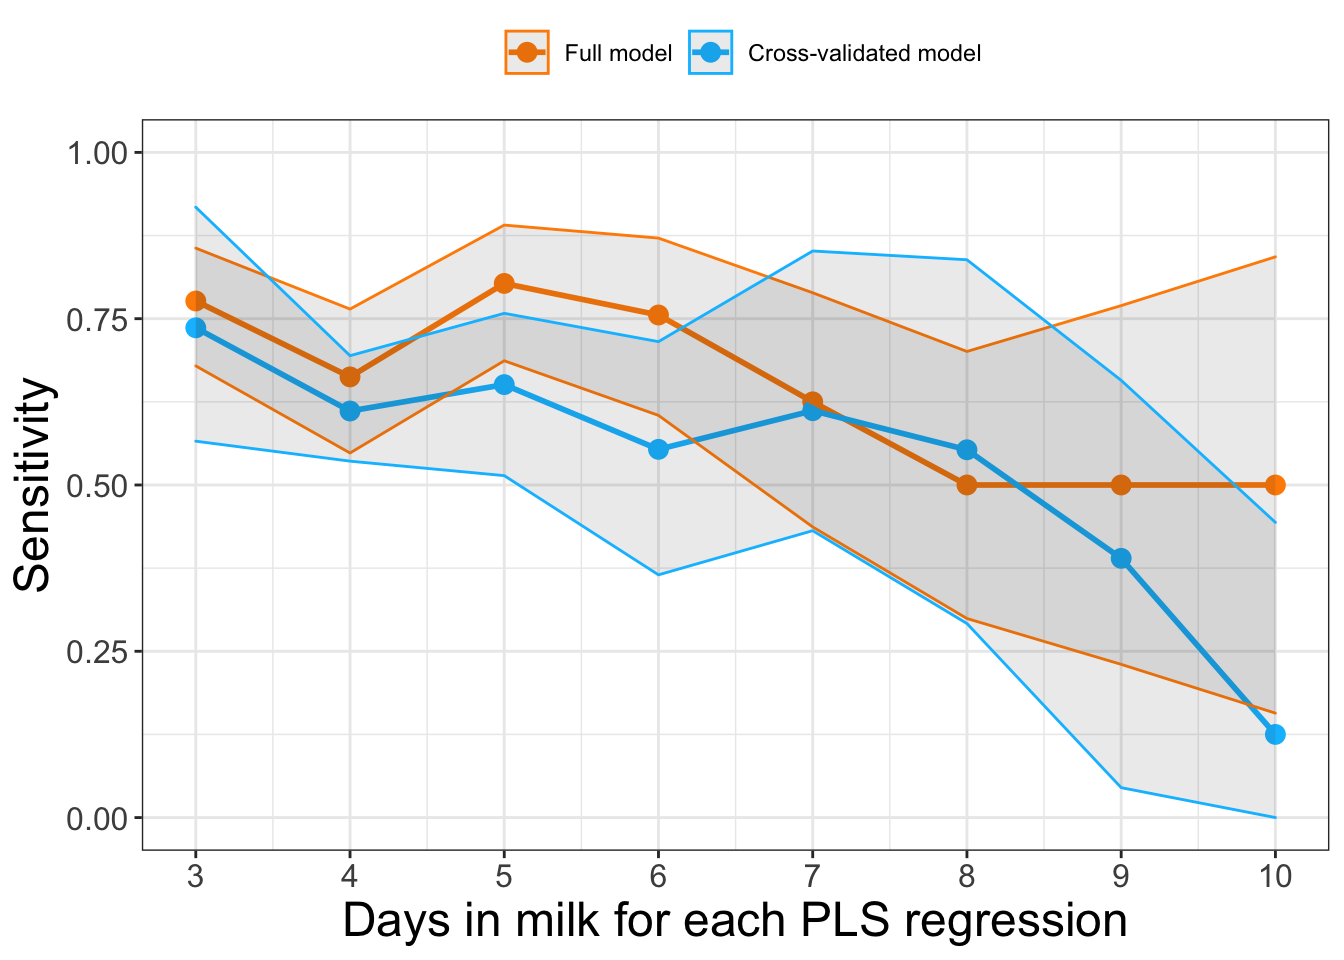
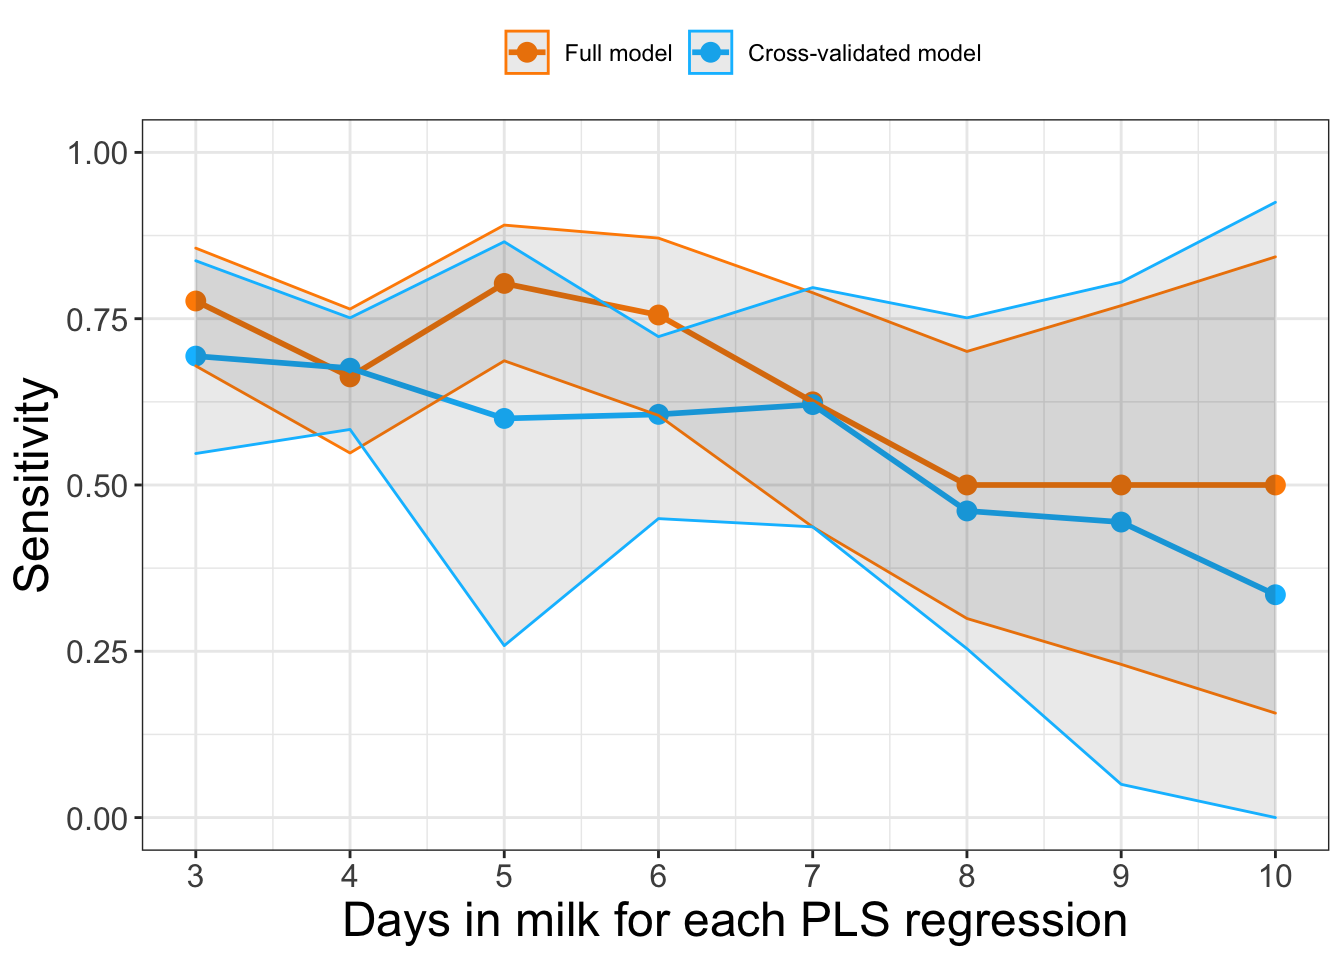
re running sim

diff --git a/index.html b/index.html
@@ -439,27 +439,57 @@ df = df %&gt;%
 <div id="number-of-cows-enrolled" class="section level3">
 <h3>Number of cows enrolled</h3>
 <table>
-<caption>Number of cows enrolled in study</caption>
+<caption>
+Number of cows enrolled in study
+</caption>
 <thead>
-<tr class="header">
-<th align="center">Parity 1</th>
-<th align="center">Parity 2</th>
-<th align="center">Parity 3</th>
-<th align="center">Parity 4</th>
-<th align="center">Parity 5</th>
-<th align="center">Parity 6</th>
-<th align="center">Parity 7</th>
+<tr>
+<th style="text-align:center;">
+Parity 1
+</th>
+<th style="text-align:center;">
+Parity 2
+</th>
+<th style="text-align:center;">
+Parity 3
+</th>
+<th style="text-align:center;">
+Parity 4
+</th>
+<th style="text-align:center;">
+Parity 5
+</th>
+<th style="text-align:center;">
+Parity 6
+</th>
+<th style="text-align:center;">
+Parity 7
+</th>
 </tr>
 </thead>
 <tbody>
-<tr class="odd">
-<td align="center">306</td>
-<td align="center">274</td>
-<td align="center">232</td>
-<td align="center">117</td>
-<td align="center">58</td>
-<td align="center">25</td>
-<td align="center">12</td>
+<tr>
+<td style="text-align:center;">
+306
+</td>
+<td style="text-align:center;">
+274
+</td>
+<td style="text-align:center;">
+232
+</td>
+<td style="text-align:center;">
+117
+</td>
+<td style="text-align:center;">
+58
+</td>
+<td style="text-align:center;">
+25
+</td>
+<td style="text-align:center;">
+12
+</td>
 </tr>
 </tbody>
 </table>
@@ -469,29 +499,63 @@ df = df %&gt;%
 <div id="number-of-samples-at-each-timepoint" class="section level3">
 <h3>Number of samples at each timepoint</h3>
 <table>
-<caption>Number of samples at each DIM</caption>
+<caption>
+Number of samples at each DIM
+</caption>
 <thead>
-<tr class="header">
-<th align="center">3 DIM</th>
-<th align="center">4 DIM</th>
-<th align="center">5 DIM</th>
-<th align="center">6 DIM</th>
-<th align="center">7 DIM</th>
-<th align="center">8 DIM</th>
-<th align="center">9 DIM</th>
-<th align="center">10 DIM</th>
+<tr>
+<th style="text-align:center;">
+3 DIM
+</th>
+<th style="text-align:center;">
+4 DIM
+</th>
+<th style="text-align:center;">
+5 DIM
+</th>
+<th style="text-align:center;">
+6 DIM
+</th>
+<th style="text-align:center;">
+7 DIM
+</th>
+<th style="text-align:center;">
+8 DIM
+</th>
+<th style="text-align:center;">
+9 DIM
+</th>
+<th style="text-align:center;">
+10 DIM
+</th>
 </tr>
 </thead>
 <tbody>
-<tr class="odd">
-<td align="center">465</td>
-<td align="center">549</td>
-<td align="center">579</td>
-<td align="center">562</td>
-<td align="center">523</td>
-<td align="center">506</td>
-<td align="center">409</td>
-<td align="center">355</td>
+<tr>
+<td style="text-align:center;">
+465
+</td>
+<td style="text-align:center;">
+549
+</td>
+<td style="text-align:center;">
+579
+</td>
+<td style="text-align:center;">
+562
+</td>
+<td style="text-align:center;">
+523
+</td>
+<td style="text-align:center;">
+506
+</td>
+<td style="text-align:center;">
+409
+</td>
+<td style="text-align:center;">
+355
+</td>
 </tr>
 </tbody>
 </table>
@@ -501,17 +565,27 @@ df = df %&gt;%
 <div id="number-of-healthy-and-sick-cows" class="section level3">
 <h3>Number of healthy and sick cows</h3>
 <table>
-<caption>Number of healthy and sick cows</caption>
+<caption>
+Number of healthy and sick cows
+</caption>
 <thead>
-<tr class="header">
-<th align="center">Healthy</th>
-<th align="center">Sick</th>
+<tr>
+<th style="text-align:center;">
+Healthy
+</th>
+<th style="text-align:center;">
+Sick
+</th>
 </tr>
 </thead>
 <tbody>
-<tr class="odd">
-<td align="center">881</td>
-<td align="center">143</td>
+<tr>
+<td style="text-align:center;">
+881
+</td>
+<td style="text-align:center;">
+143
+</td>
 </tr>
 </tbody>
 </table>
@@ -622,29 +696,63 @@ AUC.high[8] = ci.auc(df10$sick, df10$predict.prob, conf.level = 0.95)[3]</code><
 <hr />
 <p><br></p>
 <table>
-<caption>Area under ROC curve for PLS model at each DIM</caption>
+<caption>
+Area under ROC curve for PLS model at each DIM
+</caption>
 <thead>
-<tr class="header">
-<th align="center">3 DIM</th>
-<th align="center">4 DIM</th>
-<th align="center">5 DIM</th>
-<th align="center">6 DIM</th>
-<th align="center">7 DIM</th>
-<th align="center">8 DIM</th>
-<th align="center">9 DIM</th>
-<th align="center">10 DIM</th>
+<tr>
+<th style="text-align:center;">
+3 DIM
+</th>
+<th style="text-align:center;">
+4 DIM
+</th>
+<th style="text-align:center;">
+5 DIM
+</th>
+<th style="text-align:center;">
+6 DIM
+</th>
+<th style="text-align:center;">
+7 DIM
+</th>
+<th style="text-align:center;">
+8 DIM
+</th>
+<th style="text-align:center;">
+9 DIM
+</th>
+<th style="text-align:center;">
+10 DIM
+</th>
 </tr>
 </thead>
 <tbody>
-<tr class="odd">
-<td align="center">0.8173998</td>
-<td align="center">0.805677</td>
-<td align="center">0.8195109</td>
-<td align="center">0.8251451</td>
-<td align="center">0.84375</td>
-<td align="center">0.7341346</td>
-<td align="center">0.7379747</td>
-<td align="center">0.7409942</td>
+<tr>
+<td style="text-align:center;">
+0.8173998
+</td>
+<td style="text-align:center;">
+0.805677
+</td>
+<td style="text-align:center;">
+0.8195109
+</td>
+<td style="text-align:center;">
+0.8251451
+</td>
+<td style="text-align:center;">
+0.84375
+</td>
+<td style="text-align:center;">
+0.7341346
+</td>
+<td style="text-align:center;">
+0.7379747
+</td>
+<td style="text-align:center;">
+0.7409942
+</td>
 </tr>
 </tbody>
 </table>
@@ -1197,13 +1305,8 @@ for (i in 1:num.sim) {
   cv.npv[i] = as.numeric(m$byClass[4])
   cv.auc[i] = m$auc
   
-}</code></pre>
-<pre><code>## Warning in confusionMatrix.default(as.factor(testing.set$test.result), reference = as.factor(testing.set$sick), :
-## Levels are not in the same order for reference and data. Refactoring data to match.
-
-## Warning in confusionMatrix.default(as.factor(testing.set$test.result), reference = as.factor(testing.set$sick), :
-## Levels are not in the same order for reference and data. Refactoring data to match.</code></pre>
-<pre class="r"><code>cv.avg.sens[8] = mean(cv.sens)
+}
+cv.avg.sens[8] = mean(cv.sens)
 cv.sens.low[8] = quantile(cv.sens, probs = 2.5/100, na.rm = T)
 cv.sens.high[8] = quantile(cv.sens, probs = 97.5/100, na.rm = T)
 
@@ -1245,8 +1348,6 @@ cv.auc.high[8] = quantile(cv.auc, probs = 97.5/100, na.rm = T)</code></pre>
 <div id="positive-predictive-value-plot" class="section level5">
 <h5>Positive predictive value plot</h5>
 <hr />
-<pre><code>## Warning: Removed 1 rows containing missing values (geom_point).</code></pre>
-<pre><code>## Warning: Removed 1 row(s) containing missing values (geom_path).</code></pre>
 <p><img src="index_files/figure-html/unnamed-chunk-17-1.png" width="672" /></p>
 <p><br></p>
 </div>
